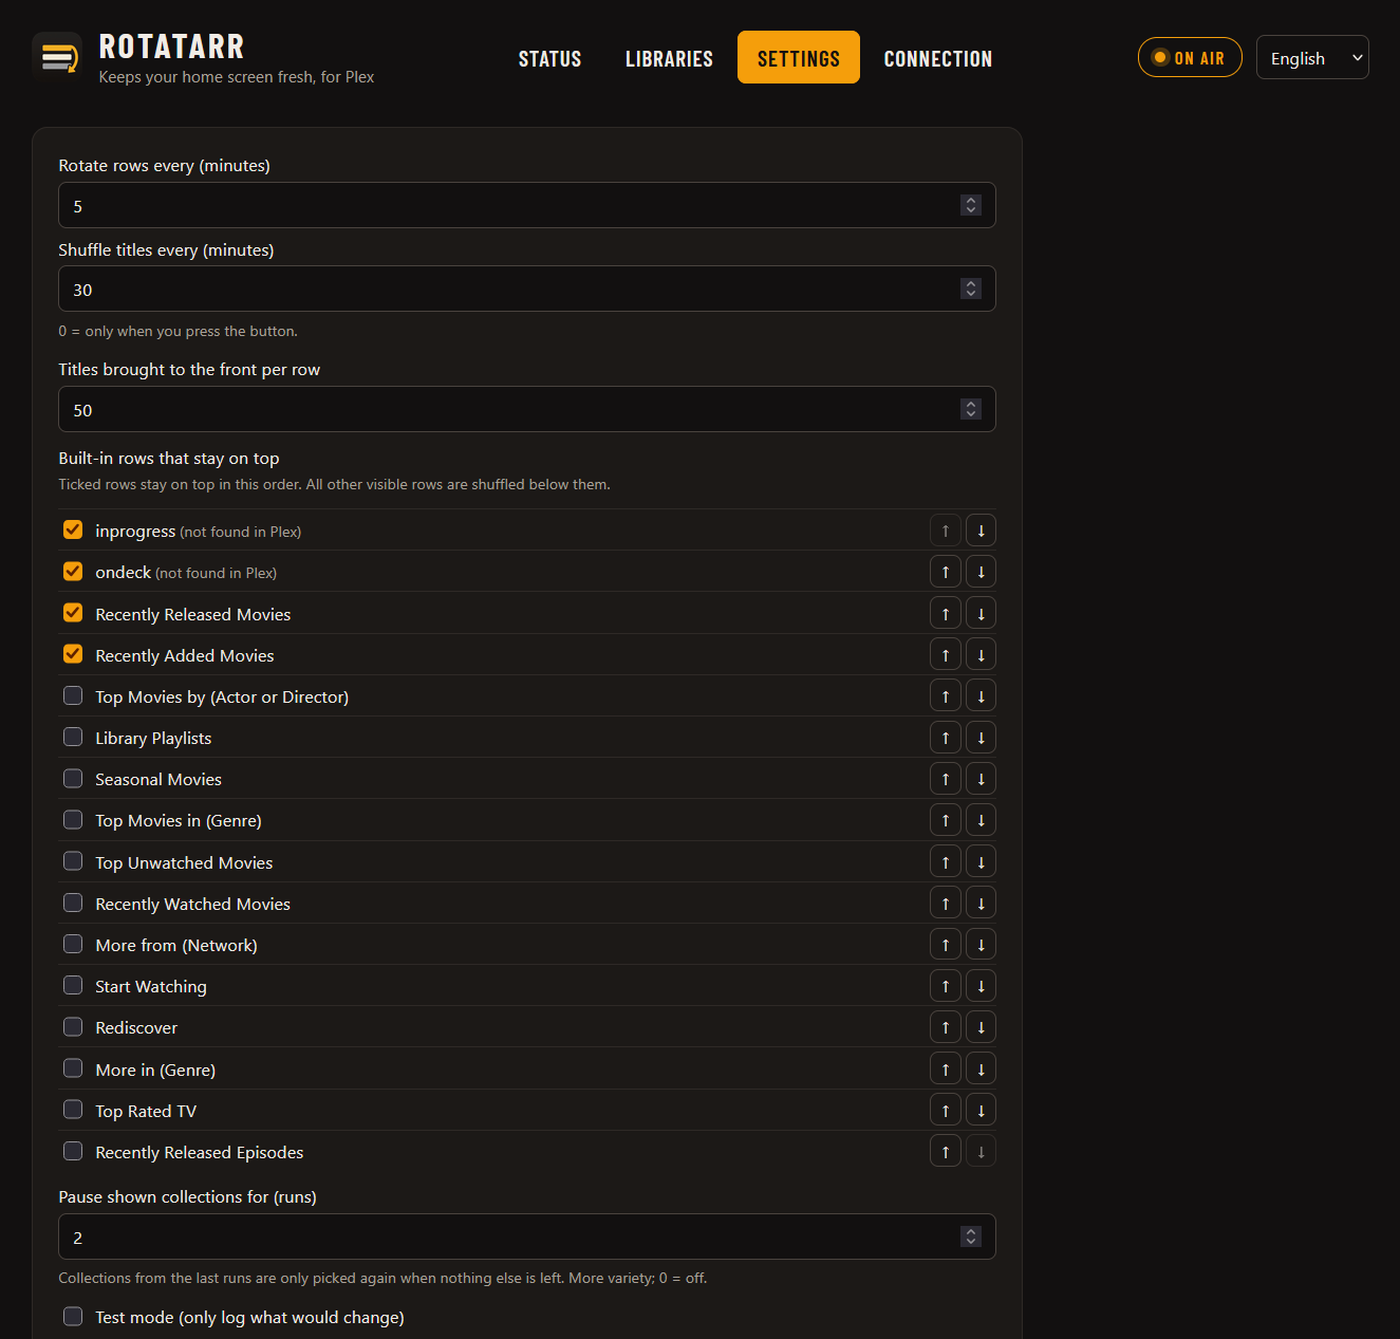
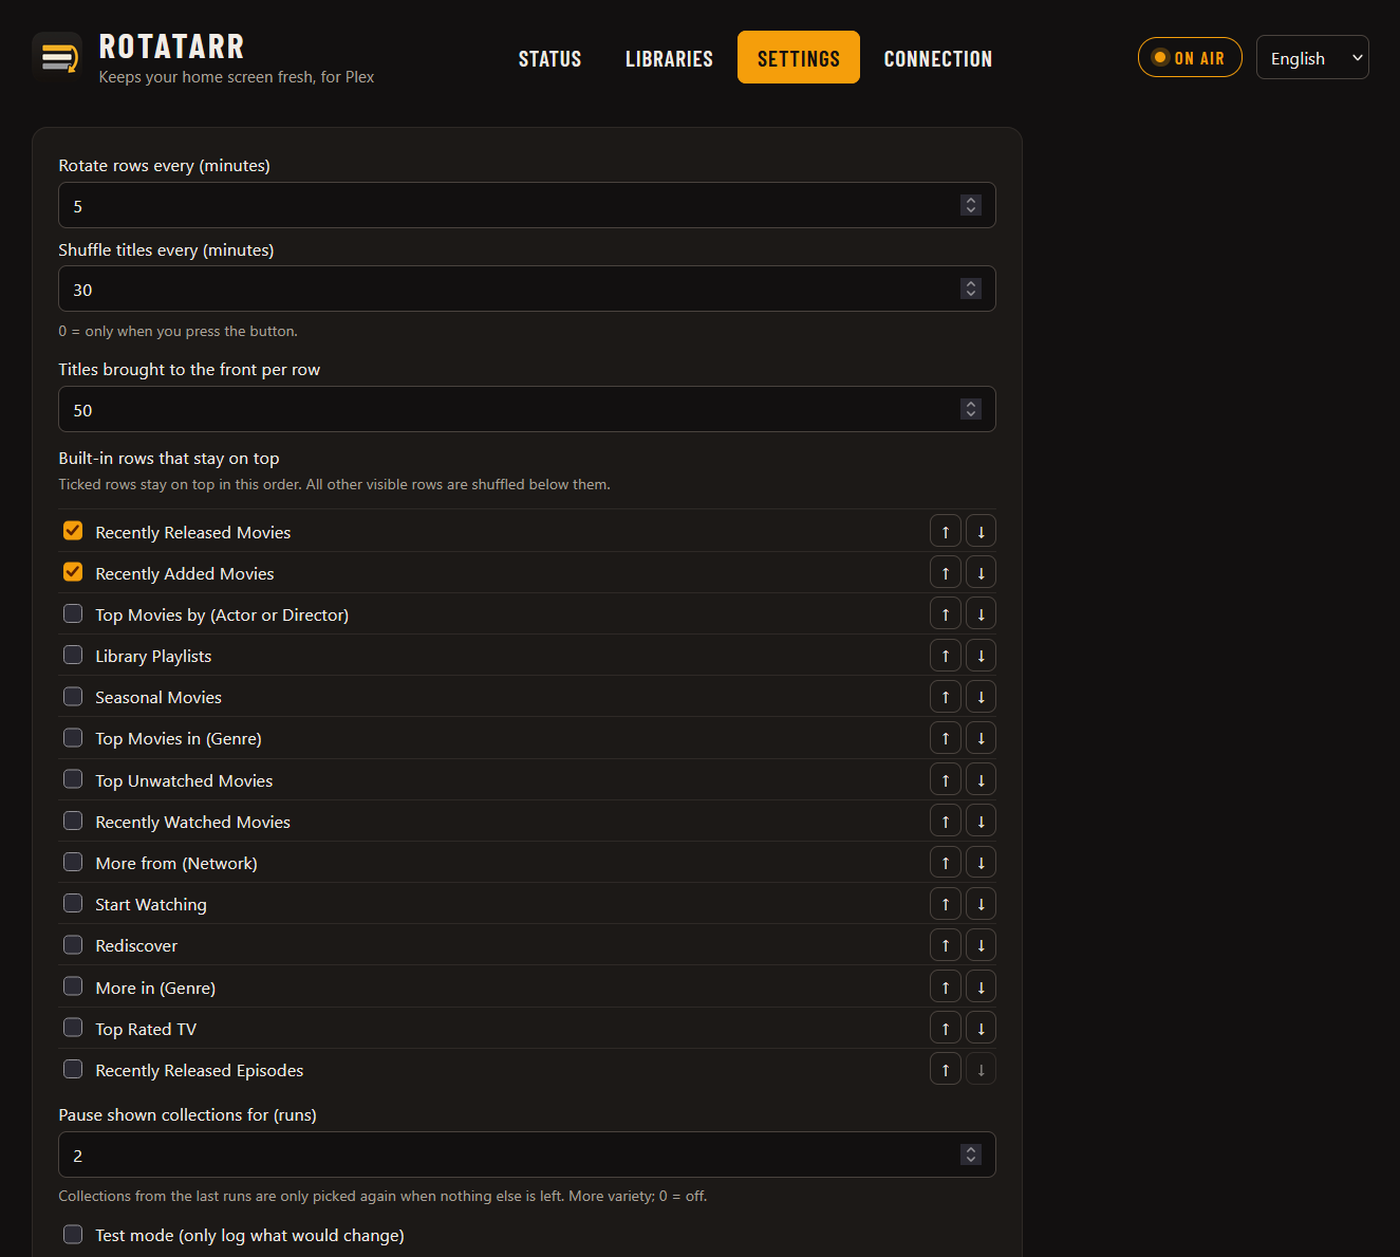
Hide saved built-in rows that the server does not have
The defaults "inprogress" and "ondeck" were listed as "not found in
Plex" on servers without these rows. They stay saved and still work if
Plex shows them later.

diff --git a/rotatarr/static/app.js b/rotatarr/static/app.js
@@ -495,10 +495,12 @@ function fillSettingsForm() {
 }
 
 let pinnedRows = []; // [{key, title, checked}] in display order
+let builtinKnown = false; // true once Plex has told us which built-in rows it has
 
 async function loadBuiltinRows() {
   const builtin = settings.connected ? await api("/api/builtin-rows").catch(() => []) : [];
   const titles = new Map(builtin.map((r) => [r.key, r.title]));
+  builtinKnown = builtin.length > 0;
   // Saved rows first, in their order; then the other built-in rows Plex knows.
   pinnedRows = settings.pinned_rows.map((key) => ({ key, title: titles.get(key), checked: true }));
   builtin.forEach((r) => {
@@ -510,7 +512,10 @@ async function loadBuiltinRows() {
 function renderPinned() {
   const list = $("#pinned-list");
   list.innerHTML = "";
-  pinnedRows.forEach((row, i) => {
+  // Saved rows this server does not have (e.g. the defaults "inprogress" and "ondeck") stay saved
+  // and take effect if Plex shows them later, but are not listed.
+  const shown = pinnedRows.filter((row) => row.title || !builtinKnown);
+  shown.forEach((row, i) => {
     const li = document.createElement("li");
     const label = document.createElement("label");
     label.className = "check";
@@ -535,9 +540,11 @@ function renderPinned() {
       b.textContent = symbol;
       b.title = t(key);
       b.setAttribute("aria-label", t(key));
-      b.disabled = i + dir < 0 || i + dir >= pinnedRows.length;
+      b.disabled = i + dir < 0 || i + dir >= shown.length;
       b.onclick = () => {
-        [pinnedRows[i], pinnedRows[i + dir]] = [pinnedRows[i + dir], pinnedRows[i]];
+        const a = pinnedRows.indexOf(row);
+        const other = pinnedRows.indexOf(shown[i + dir]);
+        [pinnedRows[a], pinnedRows[other]] = [pinnedRows[other], pinnedRows[a]];
         dirty.add("settings-form");
         renderPinned();
       };
